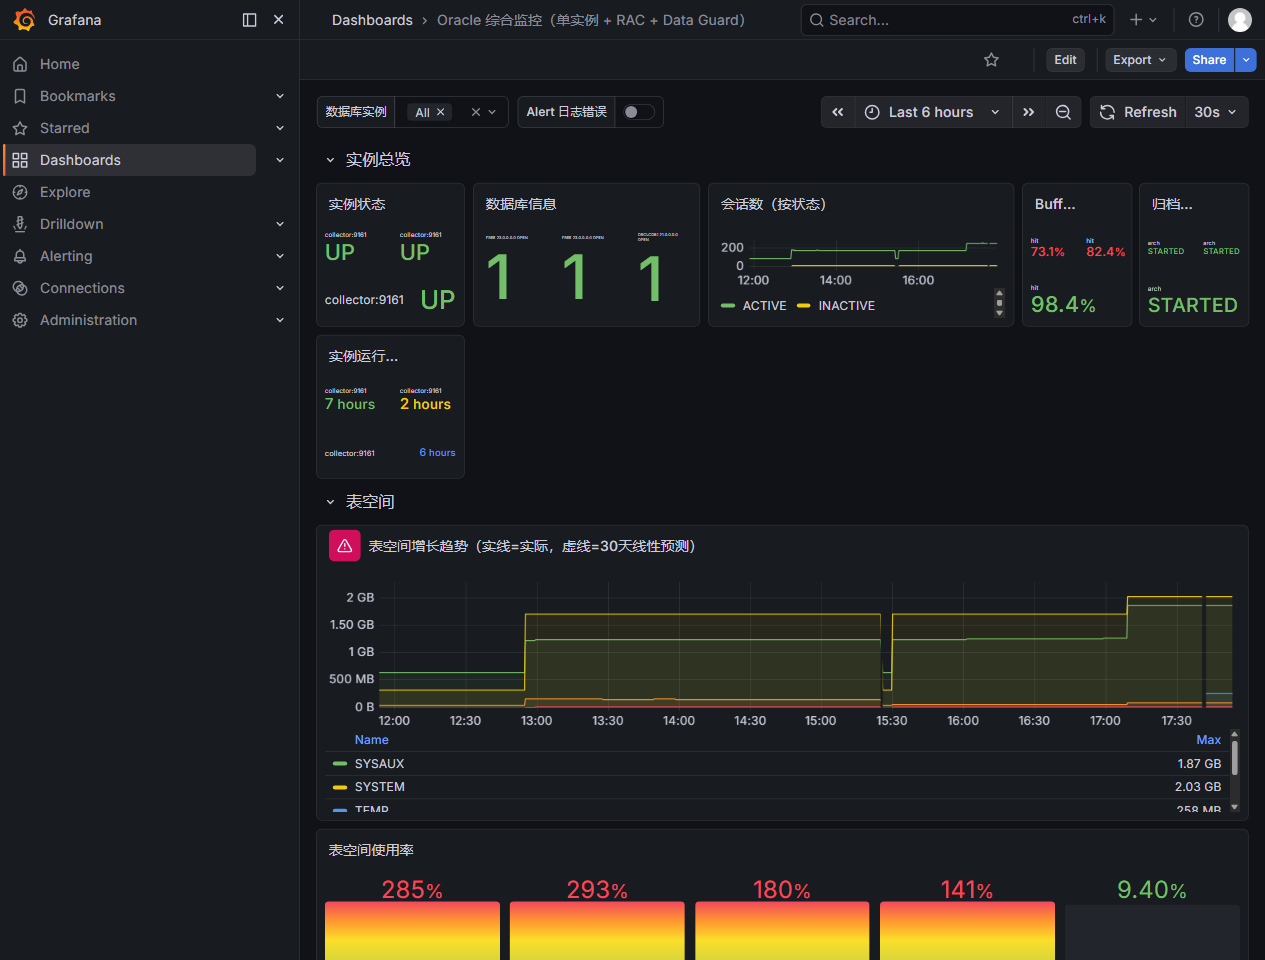
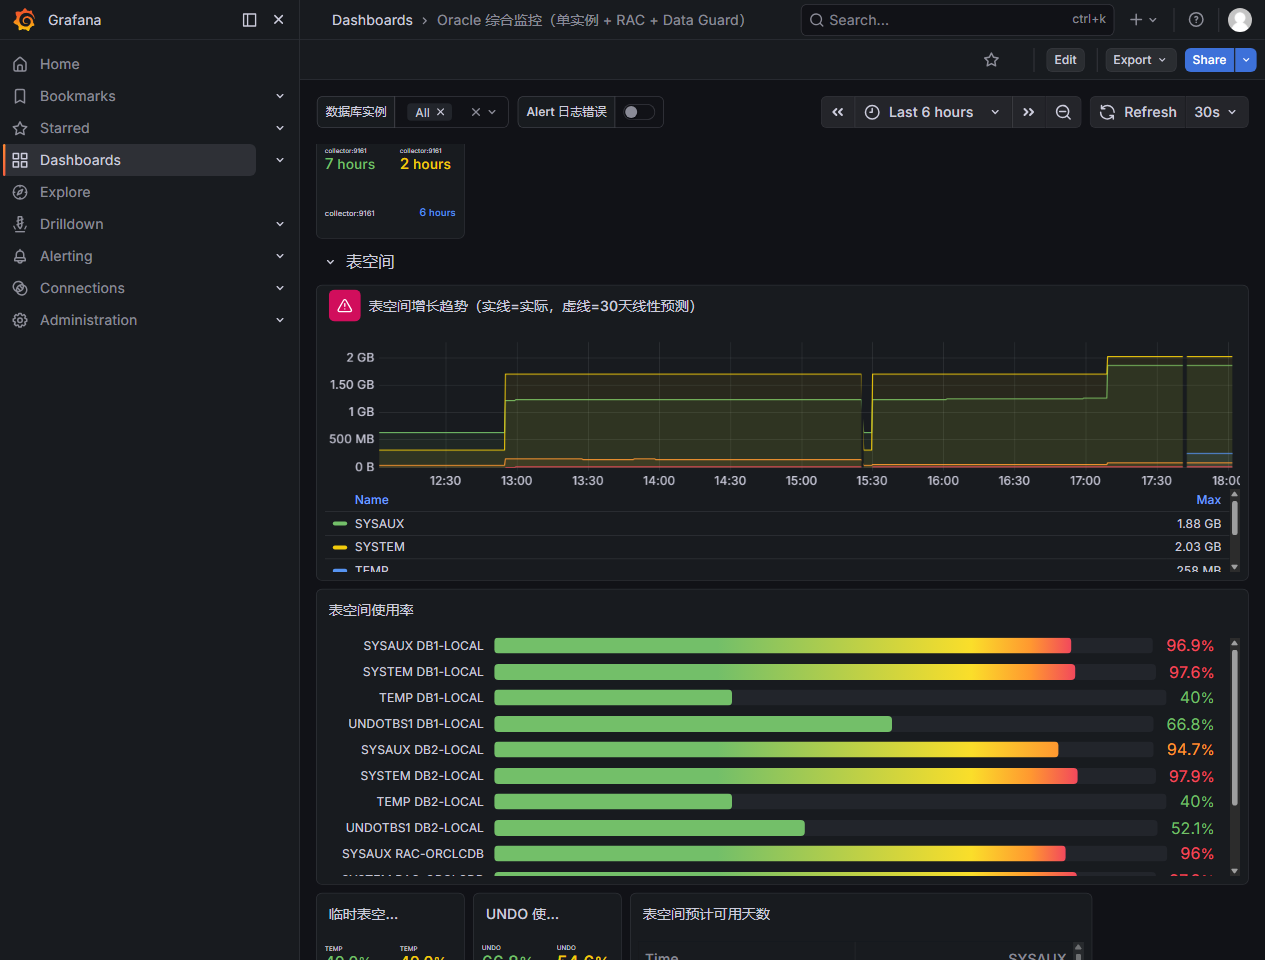
fix: 表空间使用率按 (tablespace, oracle_instance) 分别展示，竖排避免名称截断

diff --git a/grafana/create_all_dashboard.py b/grafana/create_all_dashboard.py
@@ -100,14 +100,20 @@ for p in groups["表空间"]:
         trend_panel = p
         break
 
-# 3.1 表空间使用率：RAC 多节点 used_percent 叠加会超 100%，clamp 到 100
+# 3.1 表空间使用率：多实例时百分比不能加总，必须按 (tablespace, oracle_instance) 分别展示
 for p in groups["表空间"]:
     if p.get("title") != "表空间使用率":
         continue
     for tg in p.get("targets", []):
         if "oracle_tablespace_used_percent" in (tg.get("expr") or ""):
             tg["expr"] = ("clamp_max(sum(oracle_tablespace_used_percent"
-                          "{oracle_instance=~\"$oracle_instance\"}) by (tablespace), 100)")
+                          "{oracle_instance=~\"$oracle_instance\"}) by (tablespace, oracle_instance), 100)")
+            tg["legendFormat"] = "{{tablespace}} {{oracle_instance}}"
+            tg["refId"] = "A"
+    # 多实例×多表空间 bar 较多：竖排展示，避免名字截断
+    opts = p.setdefault("options", {})
+    opts["orientation"] = "horizontal"
+    opts["displayMode"] = "gradient"
 
 if trend_panel is None:
     trend_panel = {
